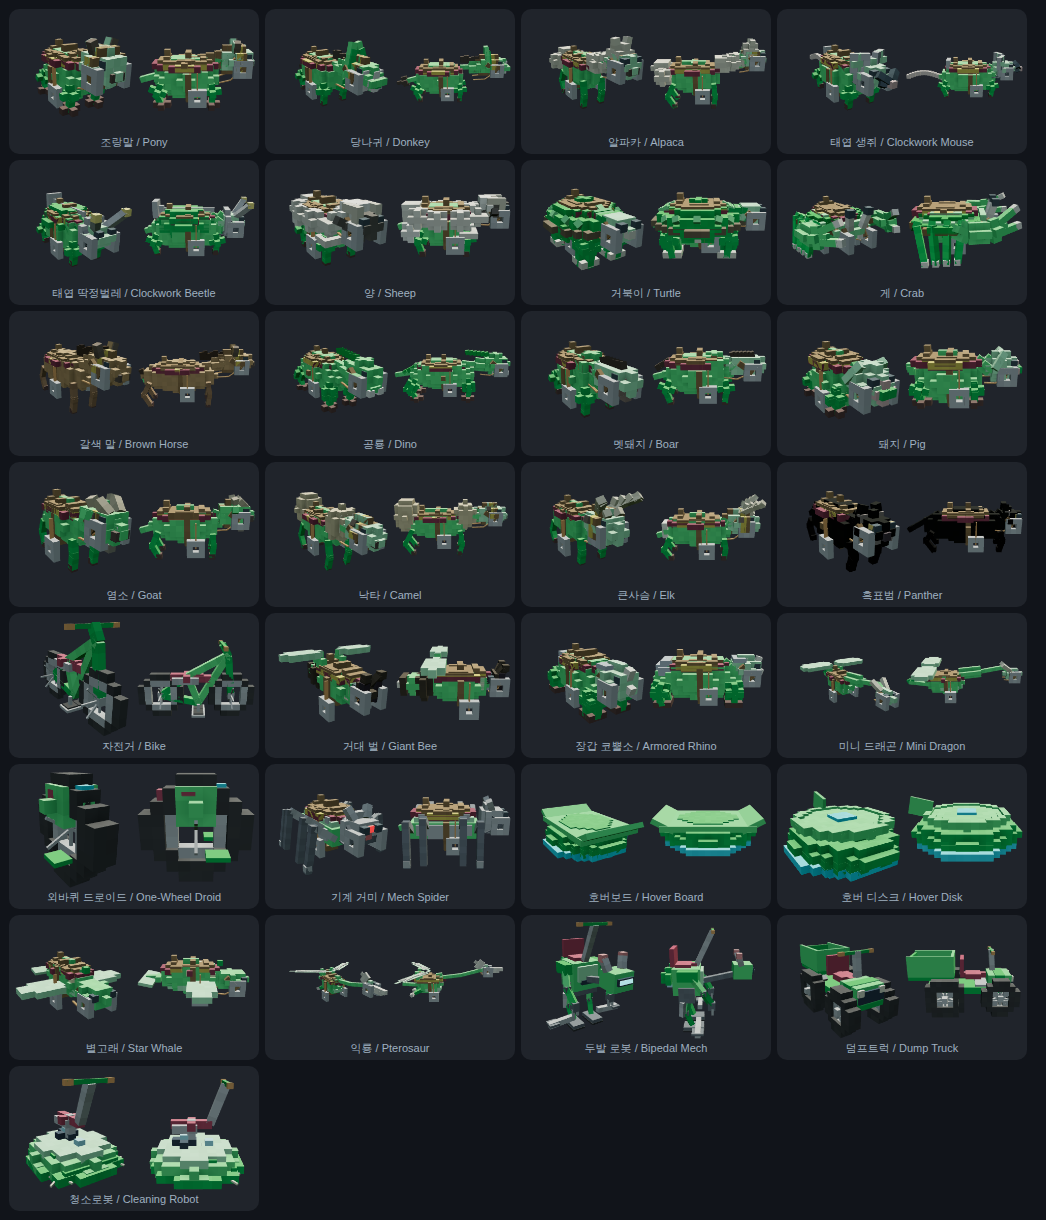
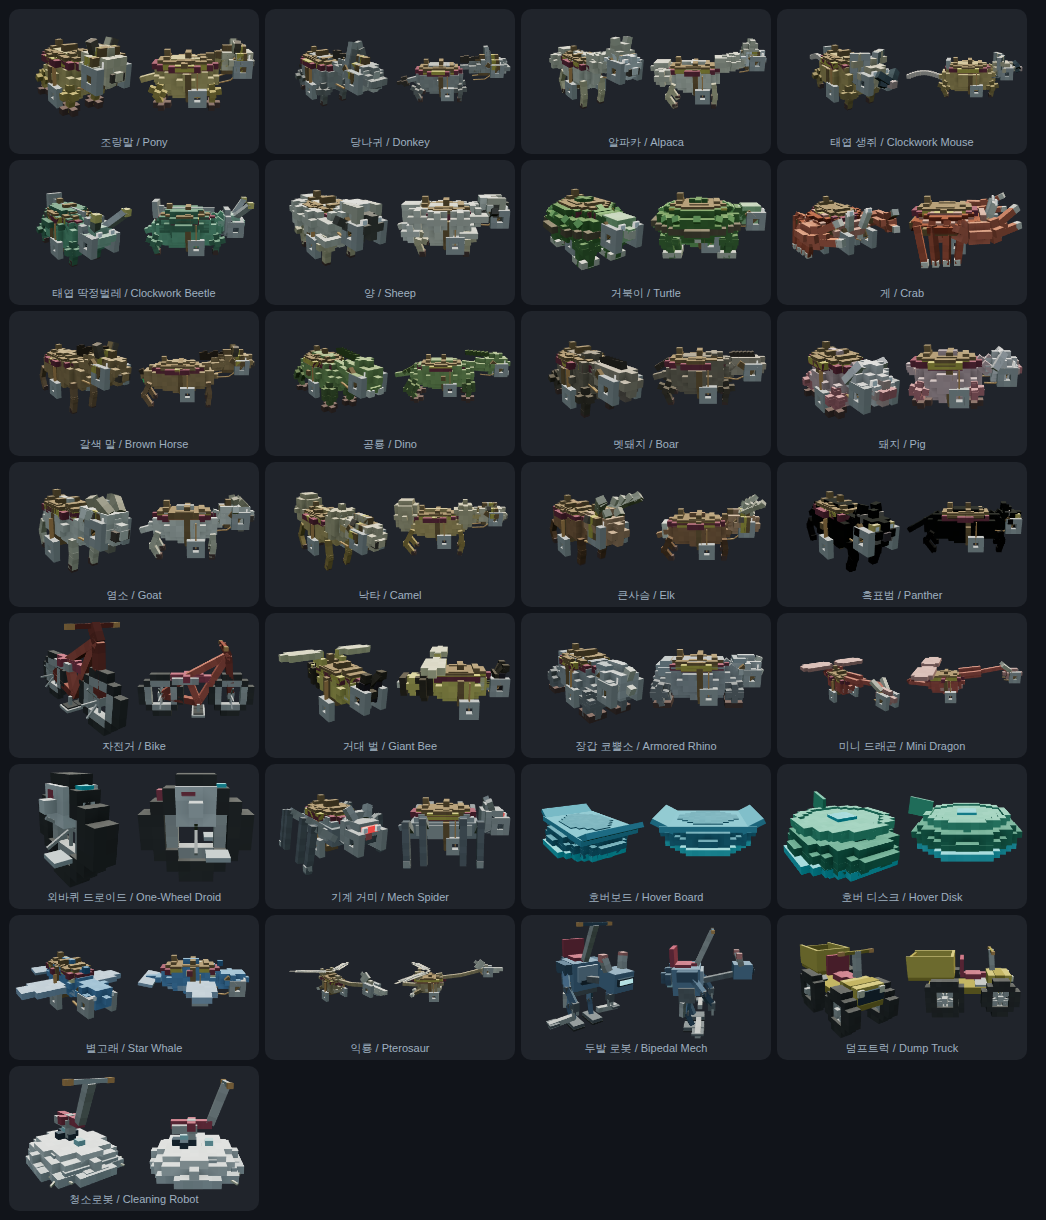
탈것 종별 몸색 = 리버본드 생생한 색 — 등급색 단일 틴트(전종 이끼초록) 폐기, MOUNT_BODY_COL 신설
비평가 2인이 공통 최악 감점(2·3점)으로 '단색 초록이라 종 구별 불가·리버본드 생생한 색이 죽음'을 짚었다. 원인은 makeMountMesh 가 c=RARITY_HEX[rarity] 하나로 모든 몸통을 물들인 것. 로스터가 종↔등급 1:1 고정이라(조랑말=common·게=rare·미니드래곤=ultimate) 몸을 종색으로 바꿔도 잃는 등급 정보가 없어 안전하다.
- MOUNT_BODY_COL 표 신설(27종): 게 빨강·돼지 분홍·별고래 파랑·거대벌 노랑·코뿔소 회색·덤프트럭 노랑·낙타 샌드 등 종 자연색. 초식 사족은 색상·명도를 일부러 벌려(황금/쿨그레이/크림/오렌지샌드/적갈) 몰개성 방지. Panther·Brown Horse 는 자체 오버라이드라 제외.
- c = MOUNT_BODY_COL[name] || rc(등급색 폴백). 지오메트리·발광 액센트(fixed hex) 무변경이라 detached/framing/motion 프로브 불변.
- 재채점: 비평가 2인 2·3 → 5·5 (게이트 7 미달, 종 조형 sparseness 후속). shot-mount-species 29종 콘솔 0.

(mount-riverbond-remake)

diff --git a/web/js/scene3d.js b/web/js/scene3d.js
@@ -10344,7 +10344,9 @@ const Scene3D = {
     // 근사하고 등급색(RARITY_HEX)으로 구분한다(사용자 지시: "개별 모델 어려우면 등급별 대표 형태로 근사").
     makeMountMesh(name, rarity) {
         const g = new THREE.Group();
-        const c = RARITY_HEX[rarity] || 0xbdbdbd;
+        const rc = RARITY_HEX[rarity] || 0xbdbdbd;              // 등급색 — 발광/장식 액센트용(applyAscendDecor 는 밖에서 rarity 로 다시 잡는다)
+        const c = (this.MOUNT_BODY_COL && this.MOUNT_BODY_COL[name]) || rc;   // 몸 바탕색 = 종 자연색(리버본드 '생생한 색'), 미등록 종만 등급색 폴백
+        void rc;
         const M = (col, opt) => new THREE.MeshLambertMaterial(Object.assign({ color: col }, opt || {}));
         const mat = M(c);
         const dark = M(new THREE.Color(c).offsetHSL(0, 0, -0.18));
@@ -13618,6 +13620,30 @@ const Scene3D = {
         // 'Elk': 0.44 — 위 이유로 **일부러 비워 둔다**(기본값 0.44 = 무변경).
                            // ⚠ 큰사슴만은 뿔 랙에 **세계 좌표 보정**(`ay()`)이 걸려 있다 — 그걸 지우면
                            //    이 값에서 `probe-ride-clear` 가 곧바로 깨진다(Elk 분기의 🚨 주석 참조).
+    },
+    // 🎨 종별 몸 바탕색 — 리버본드 '생생한 색' (mount-riverbond-remake, 2026-08-21).
+    // 🚨 **왜 이 표가 필요한가**: 종전엔 `c = RARITY_HEX[rarity]` 하나가 **모든 종의 몸통**을 물들여서,
+    //    게·돼지·코뿔소·고래·덤프트럭까지 전부 같은 '이끼 초록'(epic 틴트)으로 렌더됐다 — 비평가 2인이
+    //    공통으로 "단색 초록이라 종이 구별 안 되고 리버본드의 생생한 색이 통째로 죽었다"고 최악 감점(2·3점).
+    //    **등급색을 몸에 바르는 게 안전했던 근거가 애초에 없다**: 로스터(`mountNames`)가 종↔등급을 1:1 로
+    //    고정하므로(조랑말=common·게=rare·미니드래곤=ultimate…) 한 종은 **늘 한 등급**이라, 몸을 종색으로
+    //    바꿔도 잃는 등급 정보가 없다(등급은 소환·프레임이 지고, 발광 액센트는 fixed hex 라 c 무관).
+    // 미등록 종은 등급색으로 폴백한다. Panther·Brown Horse 는 자체 오버라이드(검정·밤색)라 일부러 뺀다 —
+    // 그 분기가 `offsetHSL(c)` 로 몸색을 짜므로 여기 넣으면 이중 채색이 된다.
+    MOUNT_BODY_COL: {
+        // 자연 동물 — 종 자연색. ⚠ 초식 사족(조랑말·당나귀·알파카·염소·낙타·큰사슴)은 현실색이 죄다
+        //    흙색이라 몰개성해지기 쉽다 — **색상·명도를 일부러 벌린다**(황금/쿨그레이/크림/근백/오렌지샌드/적갈)
+        //    는 게 리버본드의 '알록달록' 이다(비평가 지적 "탄/브라운 blob 이 죄다 비슷").
+        'Pony': 0xd4a24a, 'Donkey': 0x8c8a86, 'Alpaca': 0xeaddc0, 'Sheep': 0xdccdb0,
+        'Turtle': 0x5a9e3f, 'Crab': 0xd6472e, 'Dino': 0x6d8f3e, 'Boar': 0x6b5642,
+        'Pig': 0xe6a0a4, 'Goat': 0xe3dccb, 'Camel': 0xcf9646, 'Elk': 0x8f4f2c,
+        'Armored Rhino': 0x8f9095, 'Giant Bee': 0xe4bb3c, 'Mini Dragon': 0xc23a2e,
+        'Star Whale': 0x3f7fd0, 'Pterosaur': 0x9e7a4a,
+        // 기계·탈것 — 장치 색(무채 초록 팬케이크 방지, 비평가 지적)
+        'Clockwork Mouse': 0xc08a3e, 'Clockwork Beetle': 0x4f9d6a,
+        'Bike': 0xc0392b, 'One-Wheel Droid': 0xd7dde1, 'Mech Spider': 0x6a7078,
+        'Bipedal Mech': 0x4a6f9a, 'Dump Truck': 0xd8a72c, 'Cleaning Robot': 0xe2e6e8,
+        'Hover Board': 0x2f9fd0, 'Hover Disk': 0x33b07a,
     },
     // 안장 높이가 종마다 다르므로 **계열 상수를 그대로 돌려주면 안 된다** — 탑승 배율(rideScale)·
     // 영웅 y(heroY)·등자·발판이 전부 `form.saddle` 하나를 본다. 종 오버라이드가 있으면 얕은 복사에
